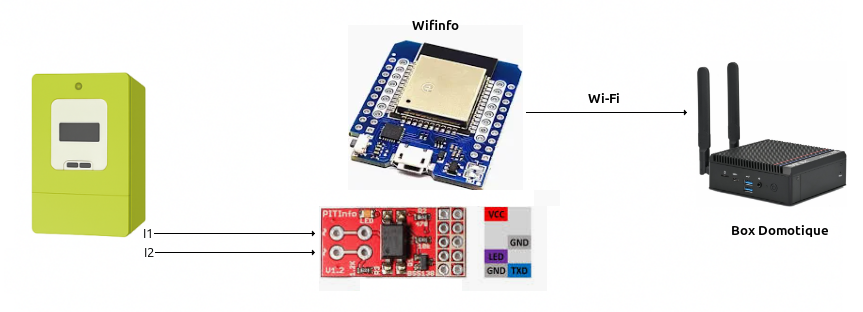
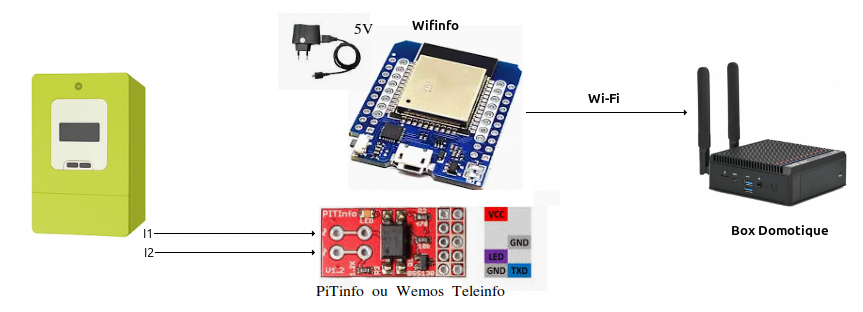
Readme update

diff --git a/README.md b/README.md
@@ -317,7 +317,7 @@ Warning : Le WS2812B est RGB mais certains sont GRB (dans ce cas il faut adapter
 - A la mise sous tension vous devez avoir successivement la led Rouge puis Verte, puis bleue. Si ce n'est pas le cas il faut changer la déclaration de rgb_led dans Wifinfo.ino
 
 # Compilation / Téléversement
-Utiliser Arduino IDE V1.8.18
+Utiliser Arduino IDE V1.8.18 / V1.8.19
 Warning : Déconnecter l'interface Linky du RX de l'ESP
 
 - Ajout du type de carte 'ESP32-WROOM-DA Module'
@@ -334,7 +334,7 @@ Warning : Déconnecter l'interface Linky du RX de l'ESP
 
   - Outils->Type de carte 'xxxx'->Gestionnaire de carte
     - Filtrer esp32
-    - esp32 by Espressif Systems v3.3.7
+    - esp32 by Espressif Systems : Sélectionner la version v3.1.1 (**ne pas prendre une version supérieure**)
     - Cliquer sur Installer
 
   - Outils-> Type de carte 'xxxx'->ESP32 Arduino
@@ -388,15 +388,15 @@ Warning : Déconnecter l'interface Linky du RX de l'ESP
     - Si erreur 'Timed out waiting for packet header
       - Quand vous voyez “Connecting…” (ou juste avant), appuyez et maintenez le 'BOOT Button' (pb rencontré avec ESP32 WROOM 32D)
     - Si Erreur error: esptool not found (arduino ide installé sur linux mint)
-      - Prendre la dernière version de esptool depuis : https://github.com/espressif/esptool/tree/master
-      - Cliquer sur **Code** et faire **Download ZIP** (esptool-master.zip)
-      - Copier **esptool-master.zip** dans le dossier <home_dir>/.arduino15/packages/esp32/hardware/esp32/3.3.7/tools
-      - Click droit sur **esptool-master.zip** et faire extraire ici
-      - Renommer le dossier créé **esptool-master** en **esptool**
+      - **Ne pas prendre une version supérieure à la v5.2.0** car elle ne contiendra plus esptool.py
+      - Prendre la version d'esptool V5.2.0 depuis : https://github.com/espressif/esptool/archive/refs/tags/v5.2.0.zip
+      - Copier **esptool-5.2.0.zip** dans le dossier <home_dir>/.arduino15/packages/esp32/hardware/esp32/3.1.1/tools
+      - Click droit sur **esptool-5.2.0.zip** et faire extraire ici
+      - Renommer le dossier créé **esptool-5.2.0** en **esptool**
       - Vérification : Ouvrez une fenetre terminal
-        - cd .arduino15/packages/esp32/hardware/esp32/3.3.7/tools/esptool
+        - cd .arduino15/packages/esp32/hardware/esp32/3.1.1/tools/esptool
         - ./esptool.py
-        - esptool V4.7.0 ...
+        - esptool V5.2.0 ...
 
   - 2 - **Croquis->Téléverser**
 
